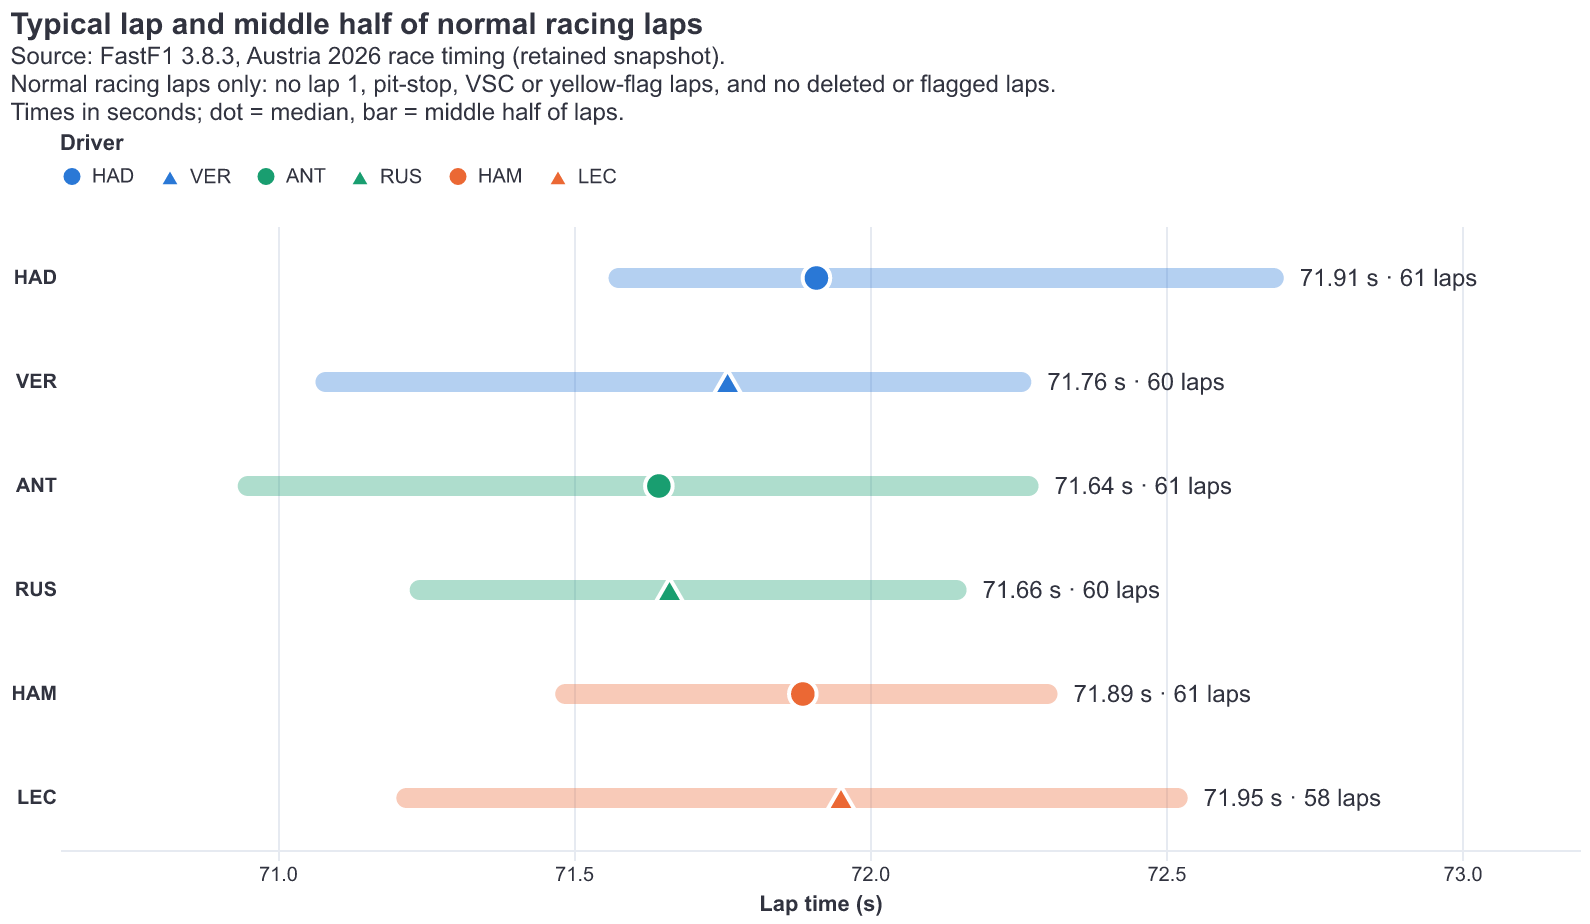
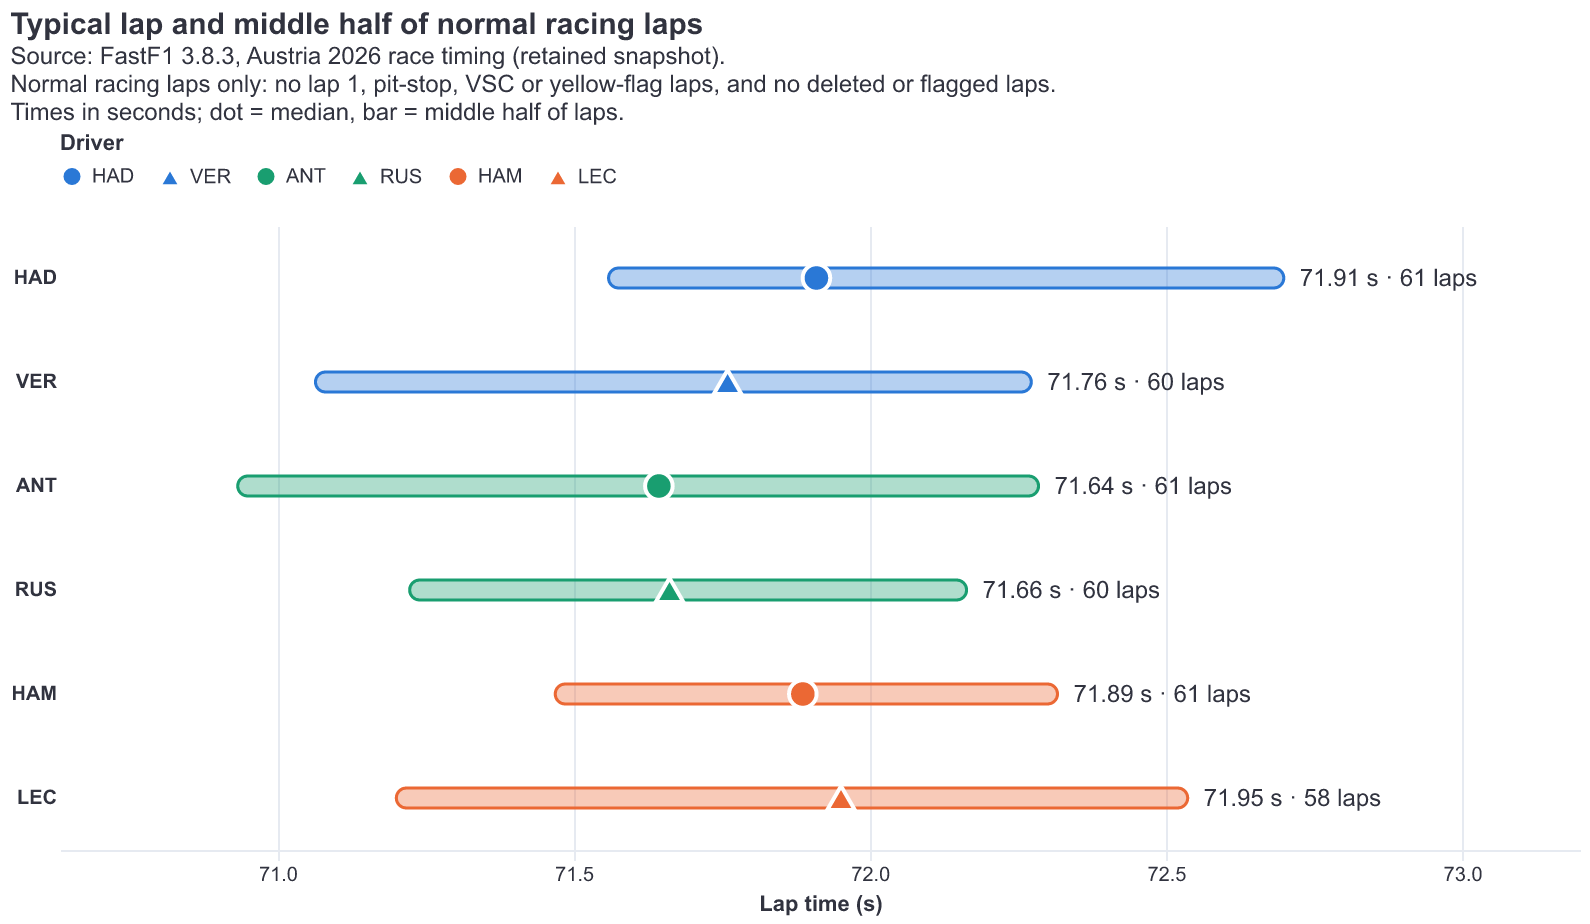
Check chart contrast at each mark's real opacity
- Make data marks fully opaque; pale range bars get a solid full-colour outline
- Test colours composited over the surface at their drawn opacity, in both the Altair charts and the replay views
- Qualify the usability record

diff --git a/tests/test_accessibility.py b/tests/test_accessibility.py
@@ -50,6 +50,40 @@ class ContrastTests(unittest.TestCase):
                 with self.subTest(mode=mode, colour=colour):
                     self.assertGreaterEqual(contrast(colour, charts.SURFACE[mode]), 3)
 
+    def test_marks_keep_3_to_1_at_their_actual_opacity(self):
+        """Composite each mark's colour over the surface at the opacity it is drawn with, not at full strength."""
+        data = charts.load_data(ROOT/'data/processed/austria-2026')
+        laps, stints, visits = data['laps'], data['stints'], data['visits']
+        pace = laps[laps.EligibleForPace]
+
+        def marks(node):
+            if isinstance(node, dict):
+                if isinstance(node.get('mark'), dict):
+                    yield node['mark']
+                for value in node.values():
+                    yield from marks(value)
+            elif isinstance(node, list):
+                for value in node:
+                    yield from marks(value)
+
+        for mode in ('dark', 'light'):
+            built = {'pace': charts.pace_chart(pace, mode), 'tyre age': charts.tyre_age_chart(pace, mode),
+                     'vsc': charts.vsc_chart(laps, mode), 'stints': charts.stint_timeline(stints, laps, mode),
+                     'positions': charts.position_chart(laps, visits, mode)}
+            for name, chart in built.items():
+                for mark in marks(chart.to_dict()):
+                    kind, opacity = mark.get('type'), mark.get('opacity', 1)
+                    if kind not in ('point', 'circle', 'bar', 'line') or opacity == 0:
+                        continue   # Text, gridlines and shading are not data marks; opacity 0 is an invisible hover target.
+                    if kind == 'bar' and mark.get('fillOpacity', 1) < 1:
+                        self.assertGreaterEqual(mark.get('strokeWidth', 0), 1, (mode, name))   # A pale fill needs a solid edge.
+                        self.assertEqual(mark.get('strokeOpacity', 1), 1, (mode, name))
+                        continue
+                    for colour in charts.TEAM_COLORS[mode]+charts.COMPOUND_COLORS:
+                        with self.subTest(mode=mode, chart=name, colour=colour, opacity=opacity):
+                            seen = blend(colour, charts.SURFACE[mode], opacity)
+                            self.assertGreaterEqual(contrast(seen, charts.SURFACE[mode]), 3)
+
 
 @unittest.skipUnless(shutil.which('node'), 'needs Node.js to run the replay script')
 class ClippingTests(unittest.TestCase):
@@ -83,6 +117,15 @@ class ClippingTests(unittest.TestCase):
                 with self.subTest(width=width, kind=kind):
                     page = replay.html(self.laps, kind, 'dark', height)
                     self.assertEqual(self.clipped(render(page, width=width), width), [])
+
+    def test_replay_range_bars_have_solid_edges_and_pit_bars_are_opaque(self):
+        pace = render(replay.html(self.laps, 'pace', 'dark', 400), width=1000)
+        bars = re.findall(r'<rect [^>]*fill-opacity="[^"]*"[^>]*>', pace)
+        self.assertEqual(len(bars), 6)
+        self.assertTrue(all('stroke="#' in bar and 'stroke-width="1.5"' in bar for bar in bars))
+        pits = re.findall(r'<rect [^>]*rx="4"[^>]*>', render(replay.html(self.laps, 'pitclock', 'dark', 488), width=1000))
+        self.assertEqual(len(pits), 14)
+        self.assertFalse([pit for pit in pits if 'opacity' in pit])
 
     def test_tyre_panels_use_one_column_on_a_narrow_screen(self):
         page = replay.html(self.laps, 'tyres', 'dark', 650)

diff --git a/app/charts.py b/app/charts.py
@@ -202,7 +202,9 @@ def pace_chart(pace: pd.DataFrame, mode: str) -> alt.LayerChart:
                alt.Tooltip('Low', title='Middle half from (s)', format='.3f'),
                alt.Tooltip('High', title='Middle half to (s)', format='.3f'), alt.Tooltip('Laps', title='Laps')]
     base = alt.Chart(summary).encode(y=y, color=color, tooltip=tooltip)
-    spread = base.mark_bar(height=10, cornerRadius=5, opacity=.35).encode(x=x, x2='High:Q')
+    # A pale fill with a solid outline in the full colour, so the range edge keeps its contrast.
+    spread = base.mark_bar(height=10, cornerRadius=5, fillOpacity=.35, strokeWidth=1.5, strokeOpacity=1).encode(
+        x=x, x2='High:Q', stroke=color)
     typical = alt.Chart(summary).mark_point(filled=True, size=190, opacity=1, stroke=SURFACE[mode], strokeWidth=2).encode(
         x=alt.X('Typical:Q', title='Lap time (s)'), y=y, tooltip=tooltip, **driver_marks(summary, mode))
     labels = alt.Chart(summary).mark_text(align='left', dx=8, fontSize=12, color=INK[mode]).encode(
@@ -239,7 +241,7 @@ def tyre_age_chart(pace: pd.DataFrame, mode: str = 'light') -> alt.FacetChart:
         x=alt.X('TyreLife:Q', title='Tyre age (laps)'),
         y=alt.Y('LapTimeSeconds:Q', title='Lap time (s)', scale=alt.Scale(zero=False)),
         detail='Stint:N')
-    points = base.mark_circle(size=38, opacity=.95).encode(color=compound_color(), tooltip=[
+    points = base.mark_circle(size=38, opacity=1).encode(color=compound_color(), tooltip=[
         'Driver', 'Stint', alt.Tooltip('Compound', title='Tyre'), alt.Tooltip('TyreLife', title='Tyre age (laps)'),
         alt.Tooltip('LapNumber', title='Lap'), alt.Tooltip('LapTimeSeconds', title='Lap time (s)', format='.3f')])
     ends = base.transform_window(Rank='rank()', sort=[alt.SortField('TyreLife', order='descending')],
@@ -277,7 +279,7 @@ def vsc_chart(laps: pd.DataFrame, mode: str) -> alt.LayerChart:
     # Lap 1 and pit laps are left out so the VSC effect is not mixed with standing starts or stops.
     data = laps.loc[~(laps.IsFirstLap | laps.IsPitInLap | laps.IsPitOutLap)].assign(
         Phase=lambda d: d.HasVSC.map({True: 'VSC lap', False: 'Other lap'}))
-    dots = alt.Chart(data).mark_point(filled=True, size=70, opacity=.9, stroke=SURFACE[mode], strokeWidth=1).encode(
+    dots = alt.Chart(data).mark_point(filled=True, size=70, opacity=1, stroke=SURFACE[mode], strokeWidth=1).encode(
         x=alt.X('LapNumber:Q', title='Lap', scale=alt.Scale(domain=[1, int(laps.LapNumber.max())], nice=False)),
         y=alt.Y('LapTimeSeconds:Q', title='Lap time (s)', scale=alt.Scale(zero=False)),
         **driver_marks(data, mode),

diff --git a/app/replay.py b/app/replay.py
@@ -247,7 +247,7 @@ function paceFrame(k) {  // Each car lays down its driver's middle-half bar; the
     const carX = xs(lo) + travel * (xs(q.high) - xs(lo));
     s += mark(M.l - 62, y, q.color, q.dashed, q.code) + `<text class="label" x="${M.l - 10}" y="${y + 4}" fill="${D.ink}" text-anchor="end">${q.code}</text>`;
     if (carX > xs(q.low))
-      s += `<rect x="${xs(q.low)}" y="${y - 5}" width="${Math.min(carX, xs(q.high)) - xs(q.low)}" height="10" rx="5" fill="${q.color}" opacity=".4"/>`;
+      s += `<rect x="${xs(q.low)}" y="${y - 5}" width="${Math.min(carX, xs(q.high)) - xs(q.low)}" height="10" rx="5" fill="${q.color}" fill-opacity=".4" stroke="${q.color}" stroke-width="1.5"/>`;
     if (carX >= xs(q.typical))
       s += bigMark(xs(q.typical), y, q.color, q.dashed, `${q.code} typical lap ${q.typical.toFixed(3)} s from ${q.n} laps`);
     s += travel < 1 ? car(carX, y, q.color, q.code)
@@ -419,7 +419,7 @@ function pitFrame() {   // Every pit-lane visit against the recorded VSC clock.
     s += `<text class="axis" x="${M.l - 10}" y="${y + 4}" fill="${D.ink}" text-anchor="end">${d.code}</text><line x1="${M.l}" x2="${W - M.r}" y1="${y}" y2="${y}" stroke="${D.grid}"/>`; });
   D.pits.forEach(v => {
     const m = (v.entry - D.t0) / 60, d = teamOf(v.driver), y = oTop + oRow * (D.drivers.indexOf(d) + .5), b = badge(v);
-    s += `<rect x="${ovx(m)}" y="${y - 6}" width="${Math.max(7, ovx(v.elapsed / 60) - ovx(0))}" height="12" rx="4" fill="${d.color}" opacity="${b ? 1 : .6}" stroke="${b ? b.fill : 'none'}" stroke-width="${b ? 2.5 : 0}"><title>${v.driver}, lap ${v.entryLap}: ${v.elapsed.toFixed(1)} s in the pit lane</title></rect>`;
+    s += `<rect x="${ovx(m)}" y="${y - 6}" width="${Math.max(7, ovx(v.elapsed / 60) - ovx(0))}" height="12" rx="4" fill="${d.color}" stroke="${b ? b.fill : 'none'}" stroke-width="${b ? 2.5 : 0}"><title>${v.driver}, lap ${v.entryLap}: ${v.elapsed.toFixed(1)} s in the pit lane</title></rect>`;
   });
   for (let m = 0; m <= oMin; m += 20) s += `<text class="axis" x="${ovx(m)}" y="${oBottom + 16}" fill="${D.ink}" text-anchor="middle">${m}</text>`;
   s += `<text class="axis" x="${M.l + oW / 2}" y="${oBottom + 32}" fill="${D.ink}" text-anchor="middle" font-weight="700">Minutes since the first lap started</text>`;

diff --git a/docs/usability-check/README.md b/docs/usability-check/README.md
@@ -22,7 +22,7 @@ Technical checks only. They do not replace the audience sessions in #8.
 | Reading order and headings | Browser accessibility tree checked: H1 page title first, then H2 chart question, H3 guide boxes and sections, H4 table titles; no level skipped. The earlier banner image role that hid the H1 was removed |
 | Screen readers | Every chart frame has a text description; page language is set |
 | Colour is not the only cue | Team-mates use circle/triangle or solid/dashed; tyres carry S/M/H letters; pit visits carry text badges; VSC laps carry rings and labels |
-| Contrast | Small text at least 4.5:1; every team colour and all three tyre colours at least 3:1 on both the dark and white surfaces (automated test, no allowance). Medium (amber) was 2.17:1 on white and the light-mode Mercedes green 2.82:1, so both were darkened (Medium `#cc8400`, light green `#199e70`) |
+| Contrast | Small text at least 4.5:1; every team colour and all three tyre colours at least 3:1 on both the dark and white surfaces (automated test, no allowance), also at the opacity each mark is drawn with. All data marks are now fully opaque; the pale range bars on the pace view keep a solid full-colour outline, so their edges meet 3:1. Pale VSC shading is background, always labelled "VSC", and is not counted as a data mark. Medium (amber) was 2.17:1 on white and the light-mode Mercedes green 2.82:1, so both were darkened (Medium `#cc8400`, light green `#199e70`) |
 | Reduced motion | No running animations; charts are drawn at once with full information |
 | Static exports | All six PNGs re-exported with source, filtering and unit notes under each title; values match the dashboard (same data and chart code) |
 
